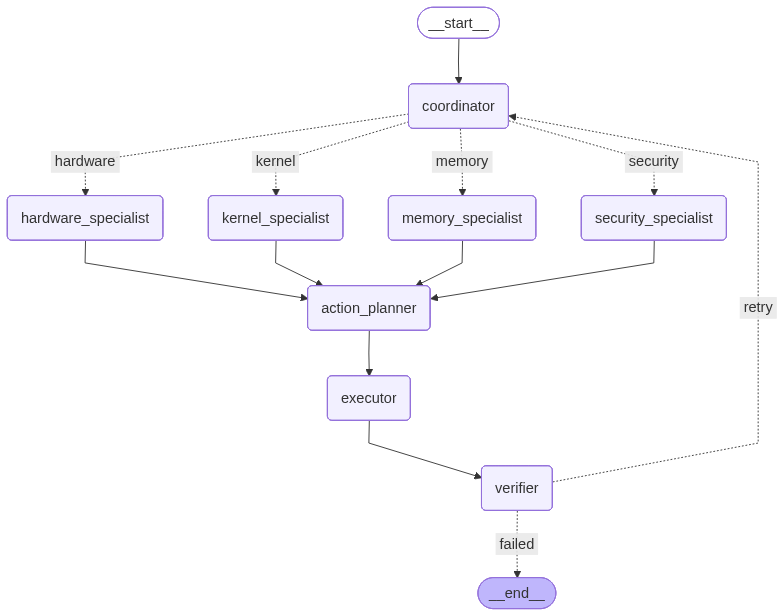
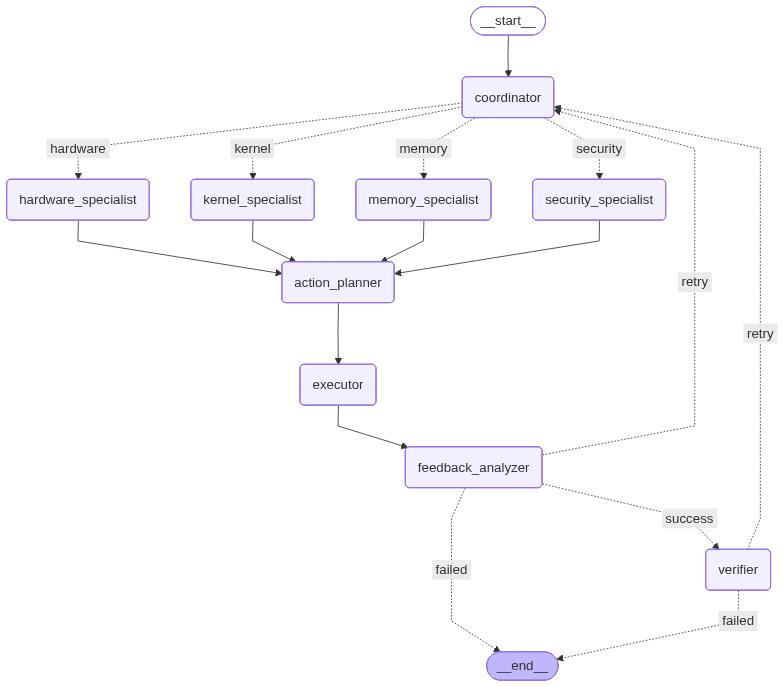
fixed agentic workflow added a aidashboard

diff --git a/selfhealing/ai_service.py b/selfhealing/ai_service.py
@@ -75,6 +75,7 @@ class AIIncidentService:
         workflow.add_node("security_specialist", self.security_specialist)
         workflow.add_node("action_planner", self.action_planner)
         workflow.add_node("executor", self.executor)
+        workflow.add_node("feedback_analyzer", self.feedback_analyzer)
         workflow.add_node("verifier", self.verifier)
         
         workflow.set_entry_point("coordinator")
@@ -95,7 +96,17 @@ class AIIncidentService:
             workflow.add_edge(specialist, "action_planner")
         
         workflow.add_edge("action_planner", "executor")
-        workflow.add_edge("executor", "verifier")
+        workflow.add_edge("executor", "feedback_analyzer")
+        
+        workflow.add_conditional_edges(
+            "feedback_analyzer",
+            self.decide_after_feedback,
+            {
+                "success": "verifier",
+                "retry": "coordinator",
+                "failed": END
+            }
+        )
         
         workflow.add_conditional_edges(
             "verifier",
@@ -113,6 +124,10 @@ class AIIncidentService:
         incident = state["incident"]
         self._rate_limit_api_call()
         
+        previous_feedback = ""
+        if state.get("execution_result"):
+            previous_feedback = f"\n\nPrevious Attempt Result:\n{state['execution_result'][:300]}"
+        
         prompt = f"""You are a Linux SRE coordinator analyzing an incident.
 
 Incident Details:
@@ -120,12 +135,12 @@ Incident Details:
 - Message: {incident['message']}
 - Count: {incident['count']}
 - Intermittent: {incident.get('is_intermittent', False)}
-- Previous Attempts: {incident.get('ai_attempts', 0)}
+- AI Attempts: {state['attempts']}/{self.MAX_ATTEMPTS}{previous_feedback}
 
 Provide brief analysis (2-3 sentences):
 1. What is happening
 2. Severity
-3. Resolution approach"""
+3. Resolution approach{' (considering previous failure)' if previous_feedback else ''}"""
 
         try:
             response = self.llm.generate(prompt)
@@ -292,42 +307,140 @@ VERIFY: <one verification command>"""
     def executor(self, state: IncidentState) -> IncidentState:
         if state.get("error"):
             return state
-            
-        execute_cmd = state["action_plan"].get("execute_command", "")
-        
+
+        execute_cmd = state["action_plan"].get("execute_command", "").strip()
+
         if not execute_cmd:
             state["execution_result"] = "ERROR: No command"
             state["error"] = "No command generated"
             return state
-        
+
+        SAFE_PREFIXES = [
+            "systemctl restart", "systemctl status", "journalctl", "ulimit",
+            "kill", "gdb", "valgrind", "echo", "dmesg", "chmod", "chown", "sysctl",
+            "ps aux", "top", "free", "df", "du", "ls", "cat", "grep"
+        ]
+
+        BLOCK_PATTERNS = [
+            "rm -rf", "shutdown", "reboot", "mkfs", "mount", "umount", ":(){:|:&};:",
+            "wget http", "curl http", "sudo su", "passwd", "useradd", "deluser",
+            "chmod 777 /", "chown -R /", "iptables", "apt remove", "apt purge",
+            "dd if=", "mkfs", "truncate /", "mv /", "sed -i '/'", "pkill -9 systemd",
+        ]
+
+        def is_safe(cmd: str) -> bool:
+            if any(bad in cmd for bad in BLOCK_PATTERNS):
+                return False
+            return any(cmd.startswith(prefix) for prefix in SAFE_PREFIXES)
+
+        if not is_safe(execute_cmd):
+            state["execution_result"] = f"BLOCKED: Unsafe command"
+            state["error"] = "Command rejected by safety policy"
+            self.log_action(state["incident_id"], "blocked_dangerous", {"command": execute_cmd})
+            print(f"🚫 [BLOCKED] {execute_cmd}")
+            return state
+
         self.log_action(state["incident_id"], "executing", {"command": execute_cmd})
-        
-        if not incidentmanager.mark_ai_attempting(state["incident_id"]):
-            print(f"⚠  Could not mark incident as attempting")
-        
+        incidentmanager.mark_ai_attempting(state["incident_id"])
+
         if self.config['execution']['mode'] == "simulation":
-            state["execution_result"] = f"SIMULATED: {execute_cmd}"
-            print(f"🔧 SIMULATED: {execute_cmd}")
-        else:
-            import subprocess
-            try:
-                result = subprocess.run(
-                    execute_cmd,
-                    shell=True,
-                    capture_output=True,
-                    timeout=30,
-                    text=True
-                )
-                state["execution_result"] = result.stdout if result.returncode == 0 else result.stderr
-                print(f"🔧 EXECUTED: {execute_cmd}")
-            except subprocess.TimeoutExpired:
-                state["execution_result"] = "ERROR: Command timeout"
-                state["error"] = "Command execution timeout"
-            except Exception as e:
-                state["execution_result"] = f"ERROR: {str(e)}"
-                state["error"] = str(e)
+            state["execution_result"] = f"SIMULATION_OK: {execute_cmd}"
+            print(f"🎮 [SIMULATION] {execute_cmd}")
+            return state
+
+        import subprocess
+        
+        try:
+            result = subprocess.run(
+                execute_cmd,
+                shell=True,
+                capture_output=True,
+                timeout=20,
+                text=True
+            )
+
+            output = result.stdout if result.returncode == 0 else result.stderr
+            state["execution_result"] = f"EXIT_CODE: {result.returncode}\nOUTPUT: {output[:500]}"
+
+            if result.returncode == 0:
+                print(f"✅ [EXECUTED] {execute_cmd}")
+                print(f"   Output: {output[:100]}")
+            else:
+                print(f"❌ [FAILED] {execute_cmd}")
+                print(f"   Error: {output[:100]}")
+
+        except subprocess.TimeoutExpired:
+            state["execution_result"] = "ERROR: Command timed out after 20s"
+            state["error"] = "timeout"
+            print("⏱  [TIMEOUT]")
+
+        except Exception as e:
+            state["execution_result"] = f"ERROR: {str(e)}"
+            state["error"] = str(e)
+            print(f"💥 [EXCEPTION] {str(e)}")
+
+        return state
+    
+    def feedback_analyzer(self, state: IncidentState) -> IncidentState:
+        if state.get("error"):
+            return state
+        
+        execution_result = state.get("execution_result", "")
+        command = state["action_plan"].get("execute_command", "")
+        
+        self._rate_limit_api_call()
+        
+        prompt = f"""You executed this command to fix an incident:
+Command: {command}
+
+Result:
+{execution_result}
+
+Analyze if the fix was successful. Reply with ONLY one word:
+- SUCCESS
+- RETRY
+- FAILED
+
+Response:"""
+
+        try:
+            response = self.llm.generate(prompt).strip().upper()
+            
+            if "SUCCESS" in response:
+                state["verification_passed"] = True
+                print(f"✅ AI Analysis: Command succeeded!")
+            elif "RETRY" in response:
+                state["verification_passed"] = False
+                print(f"🔄 AI Analysis: Command failed, will retry")
+            else:
+                state["verification_passed"] = False
+                state["error"] = "AI determined fix failed"
+                print(f"❌ AI Analysis: Cannot be fixed")
+            
+            self.log_action(state["incident_id"], "feedback_analysis", {
+                "decision": response,
+                "command": command,
+                "output": execution_result[:200]
+            })
+            
+        except Exception as e:
+            print(f"⚠  Feedback analysis failed: {e}")
+            state["verification_passed"] = True
         
         return state
+    
+    def decide_after_feedback(self, state: IncidentState) -> str:
+        if state.get("error"):
+            return "failed"
+        
+        if state["verification_passed"]:
+            return "success"
+        
+        if state["attempts"] < self.MAX_ATTEMPTS - 1:
+            print(f"🔄 Retrying with different approach (attempt {state['attempts'] + 1}/{self.MAX_ATTEMPTS})")
+            return "retry"
+        
+        return "failed"
     
     def verifier(self, state: IncidentState) -> IncidentState:
         if state.get("error"):
@@ -340,8 +453,6 @@ VERIFY: <one verification command>"""
             print(f"⚠  Could not mark action as completed")
             state["error"] = "Failed to update incident status"
             return state
-        
-        state["verification_passed"] = True
         
         self.log_action(state["incident_id"], "verification_started", {
             "status": "waiting for incident board"
@@ -358,14 +469,7 @@ VERIFY: <one verification command>"""
                 self.escalate_incident(state["incident"])
             return "failed"
         
-        if state["verification_passed"]:
-            return "success"
-        
-        if state["attempts"] >= self.MAX_ATTEMPTS:
-            self.escalate_incident(state["incident"])
-            return "failed"
-        
-        return "retry"
+        return "success"
     
     def escalate_incident(self, incident: dict):
         email = self.config['escalation']['email']
@@ -427,7 +531,6 @@ VERIFY: <one verification command>"""
             })
         else:
             print(f"⏳ Waiting... {incident['id'][:8]} - Streak: {verification_streak}/3")
-            print(f"   Will check again in next cycle")
 
         return
     
@@ -499,7 +602,7 @@ VERIFY: <one verification command>"""
             }
     
     def run(self):
-        print(f"🚀 AI Incident Service Started")
+        print(f"🚀 AI Incident Service Started (WITH FEEDBACK LOOP)")
         print(f"Provider: {self.config['llm']['provider']}")
         print(f"Model: {self.config['llm']['model']}")
         print(f"Monitoring: {self.INCIDENTS_PATH}")

diff --git a/selfhealing/ai_dashboard.py b/selfhealing/ai_dashboard.py
@@ -1,0 +1,91 @@
+from flask import Flask, render_template_string
+import json
+import os
+
+LOG_FILE = "logs/ai_actions.log"
+
+app = Flask(__name__)
+
+HTML_TEMPLATE = """
+<!DOCTYPE html>
+<html>
+<head>
+    <title>AI Incident Actions Log</title>
+    <meta http-equiv="refresh" content="5"> <!-- Auto refresh -->
+    <style>
+        body { font-family: Arial, sans-serif; background: #111; color: #eee; }
+        table { width: 100%; border-collapse: collapse; margin-top: 20px; }
+        th, td { padding: 8px; border: 1px solid #444; }
+        th { background: #333; }
+        tr:nth-child(even) { background: #1b1b1b; }
+        .success { color: #4caf50; }
+        .failed { color: #ff5252; }
+        .blocked { color: #ff9800; }
+    </style>
+</head>
+<body>
+    <h2>🤖 AI Action Log</h2>
+    <p>Source: <code>{{ log_file }}</code></p>
+
+    {% if entries %}
+    <table>
+        <tr>
+            <th>Timestamp</th>
+            <th>Incident ID</th>
+            <th>Action</th>
+            <th>Details</th>
+        </tr>
+        {% for entry in entries %}
+        <tr>
+            <td>{{ entry.timestamp }}</td>
+            <td>{{ entry.incident_id[:8] }}</td>
+            <td>
+                {% if "failed" in entry.action.lower() %}
+                    <span class="failed">{{ entry.action }}</span>
+                {% elif "blocked" in entry.action.lower() %}
+                    <span class="blocked">{{ entry.action }}</span>
+                {% elif "verified" in entry.action.lower() or "success" in entry.action.lower() %}
+                    <span class="success">{{ entry.action }}</span>
+                {% else %}
+                    {{ entry.action }}
+                {% endif %}
+            </td>
+            <td><pre>{{ entry.details|tojson(indent=2) }}</pre></td>
+        </tr>
+        {% endfor %}
+    </table>
+    {% else %}
+        <p>No logs available yet.</p>
+    {% endif %}
+</body>
+</html>
+"""
+
+def read_logs():
+    if not os.path.exists(LOG_FILE):
+        return []
+    
+    entries = []
+    with open(LOG_FILE, "r") as f:
+        for line in f:
+            line = line.strip()
+            if not line:
+                continue
+            try:
+                data = json.loads(line)
+                entries.append(data)
+            except ValueError:
+                continue
+
+    # Sort newest first
+    entries.reverse()
+    return entries
+
+@app.route("/")
+def dashboard():
+    logs = read_logs()
+    return render_template_string(HTML_TEMPLATE, entries=logs, log_file=LOG_FILE)
+
+if __name__ == "__main__":
+    print("🚀 AI Log Dashboard running at http://127.0.0.1:5001")
+    app.run(host="0.0.0.0", port=5001, debug=False)
